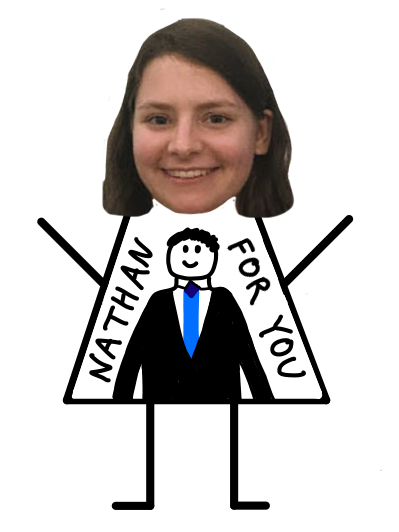
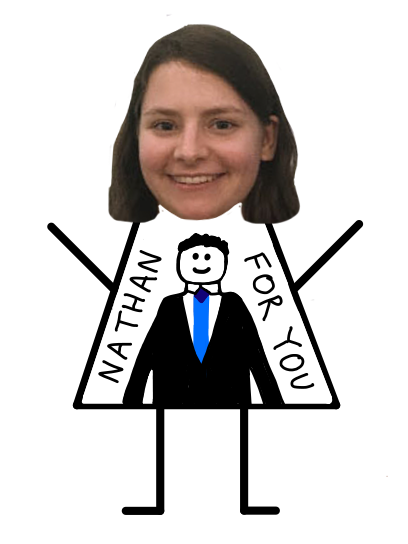
Fixed white shirt images

diff --git a/index.html b/index.html
@@ -11,12 +11,12 @@
 	<title>2017 in Review</title>
 </head>
 <body>
-	<!--<div id="loader">
+	<div id="loader">
         <div id="parentLoader">
 	        <h2>Retrieving the good stuff from 2017...</h2>
 	        <img src="images/months.gif" alt="month gif">
 	    </div>
-    </div> -->
+    </div>
 	<h1>2017 in Review</h1>
 	<p> This is the result of me getting an iPad Pro and being bored over winter break. I hope you enjoy~</p>
 	<h2>Make New Friends, but Keep the Old</h2>
@@ -103,20 +103,20 @@
 	</br>
 	</br>
 		<div id="olgas">
-			<div class="thumbnail"><img src="images/1.png" alt="timeline"><figure><img src="images/1.png" width="100px" height="100px" alt="Little Egret"><br>Visited my sister in Sweden with my bud, Alyssa. Ate meatballs and saw a lot of art. Didn't get to go to IKEA. Not salty.</figure></div>
-			<div class="thumbnail"><img src="images/2.png" alt="timeline"><figure><img src="images/2.png" width="100px" height="100px" alt="Little Egret"><br>Rocked out at the Two Door Cinema Club concert. Amazing band. Listen to albums 1 and 2 (only listen to 3 if you have time)</figure></div>
-			<div class="thumbnail"><img src="images/3.png" alt="timeline"><figure><img src="images/3.png" width="100px" height="100px" alt="Little Egret"><br>Swam in the UW fountain after it was cleaned. Injured my toe so badly it didn't heal until September.</figure></div>
-			<div class="thumbnail"><img src="images/4.png" alt="timeline"><figure><img src="images/4.png" width="100px" height="100px" alt="Little Egret"><br>Started my Facebook University internship in Menlo Park! Good vibes, good work, and good eats.</figure></div>
-			<div class="thumbnail"><img src="images/5.png" alt="timeline"><figure><img src="images/5.png" width="100px" height="100px" alt="Little Egret"><br>Got into the CSE program at UW. Said a prayer to the CSE intro series god, Stuart Reges.</figure></div>
-			<div class="thumbnail"><img src="images/6.png" alt="timeline"><figure><img src="images/6.png" width="100px" height="100px" alt="Little Egret"><br>Learned how to top rope. Fear of heights? No sir.</figure></div>
-			<div class="thumbnail"><img src="images/7.png" alt="timeline"><figure><img src="images/7.png" width="100px" height="100px" alt="Little Egret"><br>Lorde blessed me during her show at Bumbershoot. Felt reborn.</figure></div>
-			<div class="thumbnail"><img src="images/8.png" alt="timeline"><figure><img src="images/8.png" width="100px" height="100px" alt="Little Egret"><br>Met Nathan Fielder from hit show, "Nathan For You." Go watch. 10/10 funny business proposals.</figure></div>
-			<div class="thumbnail"><img src="images/9.png" alt="timeline"><figure><img src="images/9.png" width="100px" height="100px" alt="Little Egret"><br>Visited my bud, Nicole, in Cal Poly SLO during the heat of the summer. Hiked and ate tri-tip sandwiches. Would agree with Oprah and rate it “happiest city in America.”</figure></div>
-			<div class="thumbnail"><img src="images/10.png" alt="timeline"><figure><img src="images/10.png" width="100px" height="100px" alt="Little Egret"><br>Ran first half-marathon- "Beat the Blerg." Ate cake during the run.</figure></div>
-			<div class="thumbnail"><img src="images/11.png" alt="timeline"><figure><img src="images/11.png" width="100px" height="100px" alt="Little Egret"><br>Became a CSE 142 TA. Loved all my students. Probably tried too hard to be relatable. Said "thank you for being a student" to one during my last section.</figure></div>
-			<div class="thumbnail"><img src="images/12.png" alt="timeline"><figure><img src="images/12.png" width="100px" height="100px" alt="Little Egret"><br>Went to the Grace Hopper Celebration. Thank you to the TUNE House team and all the donors!</figure></div>
-			<div class="thumbnail2"><img src="images/13.png" alt="timeline"><figure><img src="images/13.png" width="100px" height="100px" alt="Little Egret"><br>Decided a half wasn't enough. Ran a full marathon with my bud, Christine. Took us 6 hours. We cried. (But we finished.)</figure></div>
-			<div class="thumbnail2"><img src="images/14.png" alt="timeline"><figure><img src="images/14.png" width="100px" height="100px" alt="Little Egret"><br>Met Hillary Rodham Clinton. Shook her hand. Said thank you.</figure></div>
+			<div class="thumbnail"><img src="images/1.png" alt="Sweden"><figure><img src="images/1.png" width="100px" height="100px" alt="Sweden"><br>Visited my sister in Sweden with my bud, Alyssa. Ate meatballs and saw a lot of art. Didn't get to go to IKEA. Not salty.</figure></div>
+			<div class="thumbnail"><img src="images/2.png" alt="Two Door Cinema Club"><figure><img src="images/2.png" width="100px" height="100px" alt="Two Door Cinema Club"><br>Rocked out at the Two Door Cinema Club concert. Amazing band. Listen to albums 1 and 2 (only listen to 3 if you have time)</figure></div>
+			<div class="thumbnail"><img src="images/3.png" alt="University of Washington"><figure><img src="images/3.png" width="100px" height="100px" alt="University of Washington"><br>Swam in the UW fountain after it was cleaned. Injured my toe so badly it didn't heal until September.</figure></div>
+			<div class="thumbnail"><img src="images/4.png" alt="Facebook"><figure><img src="images/4.png" width="100px" height="100px" alt="Facebook"><br>Started my Facebook University internship in Menlo Park! Good vibes, good work, and good eats.</figure></div>
+			<div class="thumbnail"><img src="images/5.png" alt="Computer Science and Engineering"><figure><img src="images/5.png" width="100px" height="100px" alt="Computer Science and Engineering"><br>Got into the CSE program at UW. Said a prayer to the CSE intro series god, Stuart Reges.</figure></div>
+			<div class="thumbnail"><img src="images/6.png" alt="Top roping"><figure><img src="images/6.png" width="100px" height="100px" alt="Top roping"><br>Learned how to top rope. Fear of heights? No sir.</figure></div>
+			<div class="thumbnail"><img src="images/7.png" alt="Lorde"><figure><img src="images/7.png" width="100px" height="100px" alt="Lorde"><br>Lorde blessed me during her show at Bumbershoot. Felt reborn.</figure></div>
+			<div class="thumbnail"><img src="images/8.png" alt="Nathan Fielder"><figure><img src="images/8.png" width="100px" height="100px" alt="Nathan Fielder"><br>Met Nathan Fielder from hit show, "Nathan For You." Go watch. 10/10 funny business proposals.</figure></div>
+			<div class="thumbnail"><img src="images/9.png" alt="Cal Poly SLO"><figure><img src="images/9.png" width="100px" height="100px" alt="Cal Poly SLO"><br>Visited my bud, Nicole, in Cal Poly SLO during the heat of the summer. Hiked and ate tri-tip sandwiches. Would agree with Oprah and rate it “happiest city in America.”</figure></div>
+			<div class="thumbnail"><img src="images/10.png" alt="Half-marathon"><figure><img src="images/10.png" width="100px" height="100px" alt="Half-marathon"><br>Ran first half-marathon- "Beat the Blerg." Ate cake during the run.</figure></div>
+			<div class="thumbnail"><img src="images/11.png" alt="CSE 142 TA"><figure><img src="images/11.png" width="100px" height="100px" alt="CSE 142 TA"><br>Became a CSE 142 TA. Loved all my students. Probably tried too hard to be relatable. Said "thank you for being a student" to one during my last section.</figure></div>
+			<div class="thumbnail"><img src="images/12.png" alt="Grace Hopper Celebration"><figure><img src="images/12.png" width="100px" height="100px" alt="Grace Hopper Celebration"><br>Went to the Grace Hopper Celebration. Thank you to the TUNE House team and all the donors!</figure></div>
+			<div class="thumbnail2"><img src="images/13.png" alt="Marathon"><figure><img src="images/13.png" width="100px" height="100px" alt="Marathon"><br>Decided a half wasn't enough. Ran a full marathon with my bud, Christine. Took us 6 hours. We cried. (But we finished.)</figure></div>
+			<div class="thumbnail2"><img src="images/14.png" alt="Hillary Rodham Clinton"><figure><img src="images/14.png" width="100px" height="100px" alt="Hillary Rodham Clinton"><br>Met Hillary Rodham Clinton. Shook her hand. Said thank you.</figure></div>
 		</div>
 		<img src="images/timeline.png" alt="timeline">
 	
